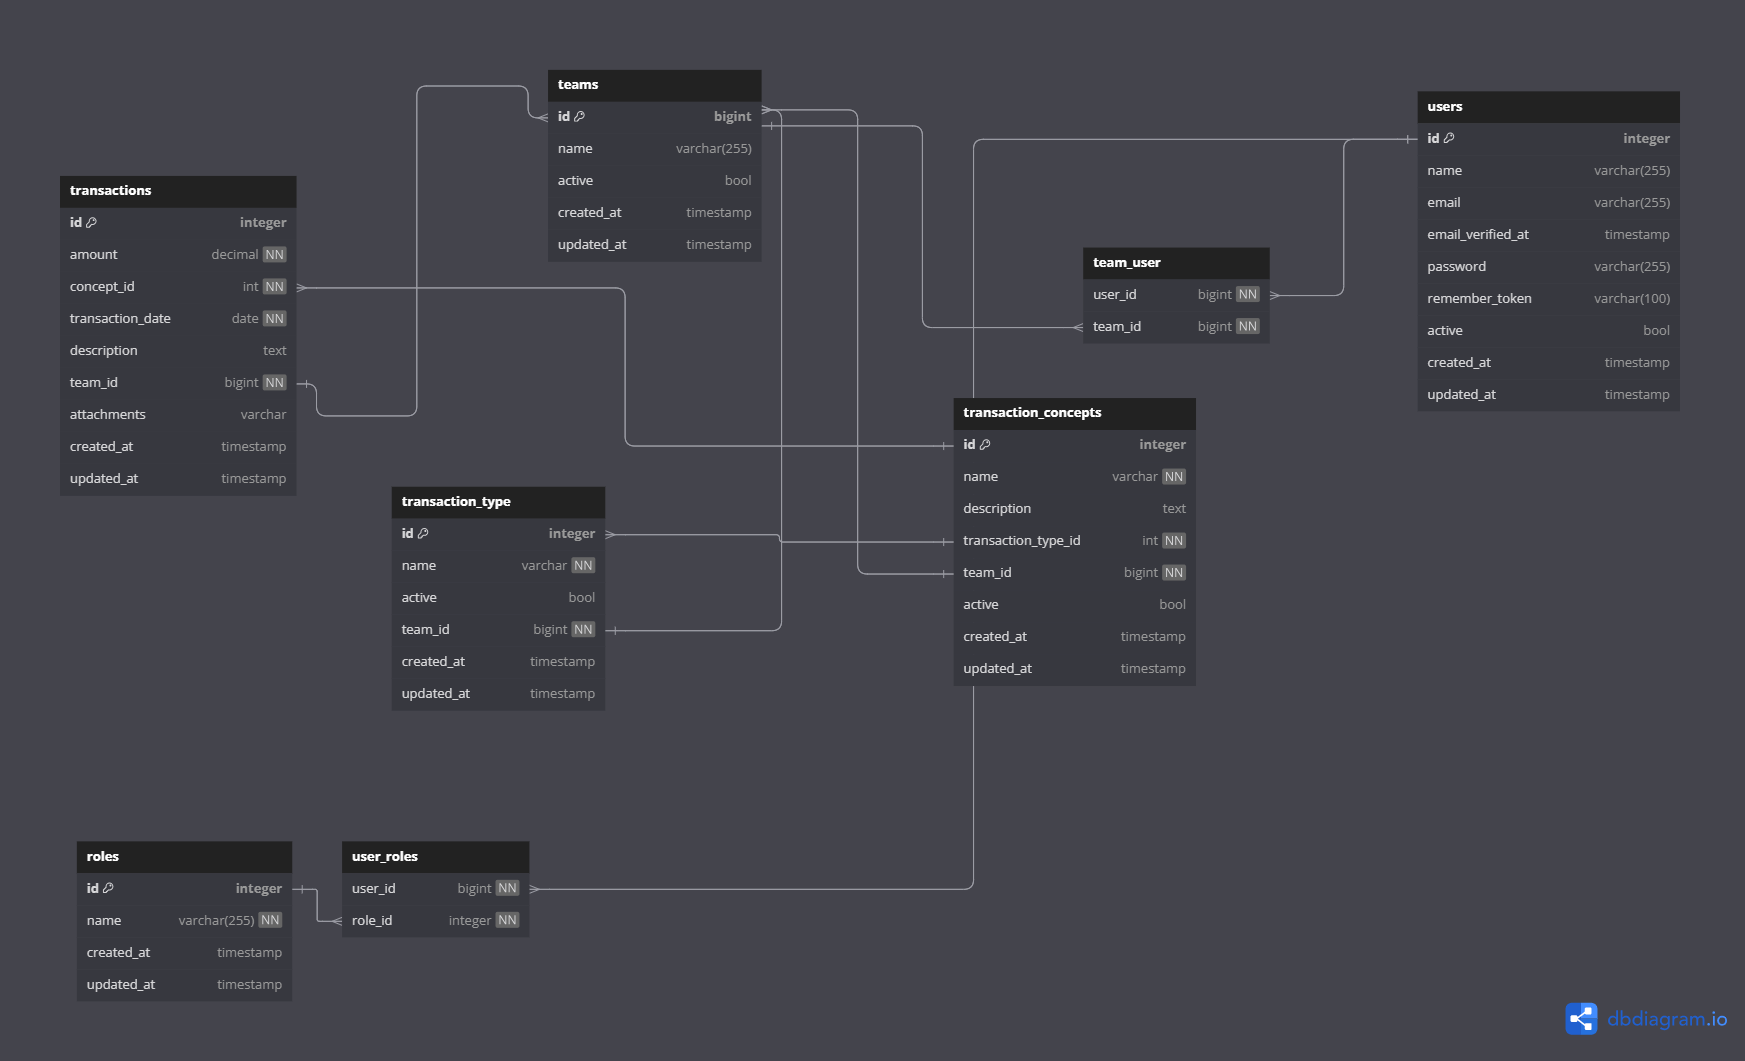
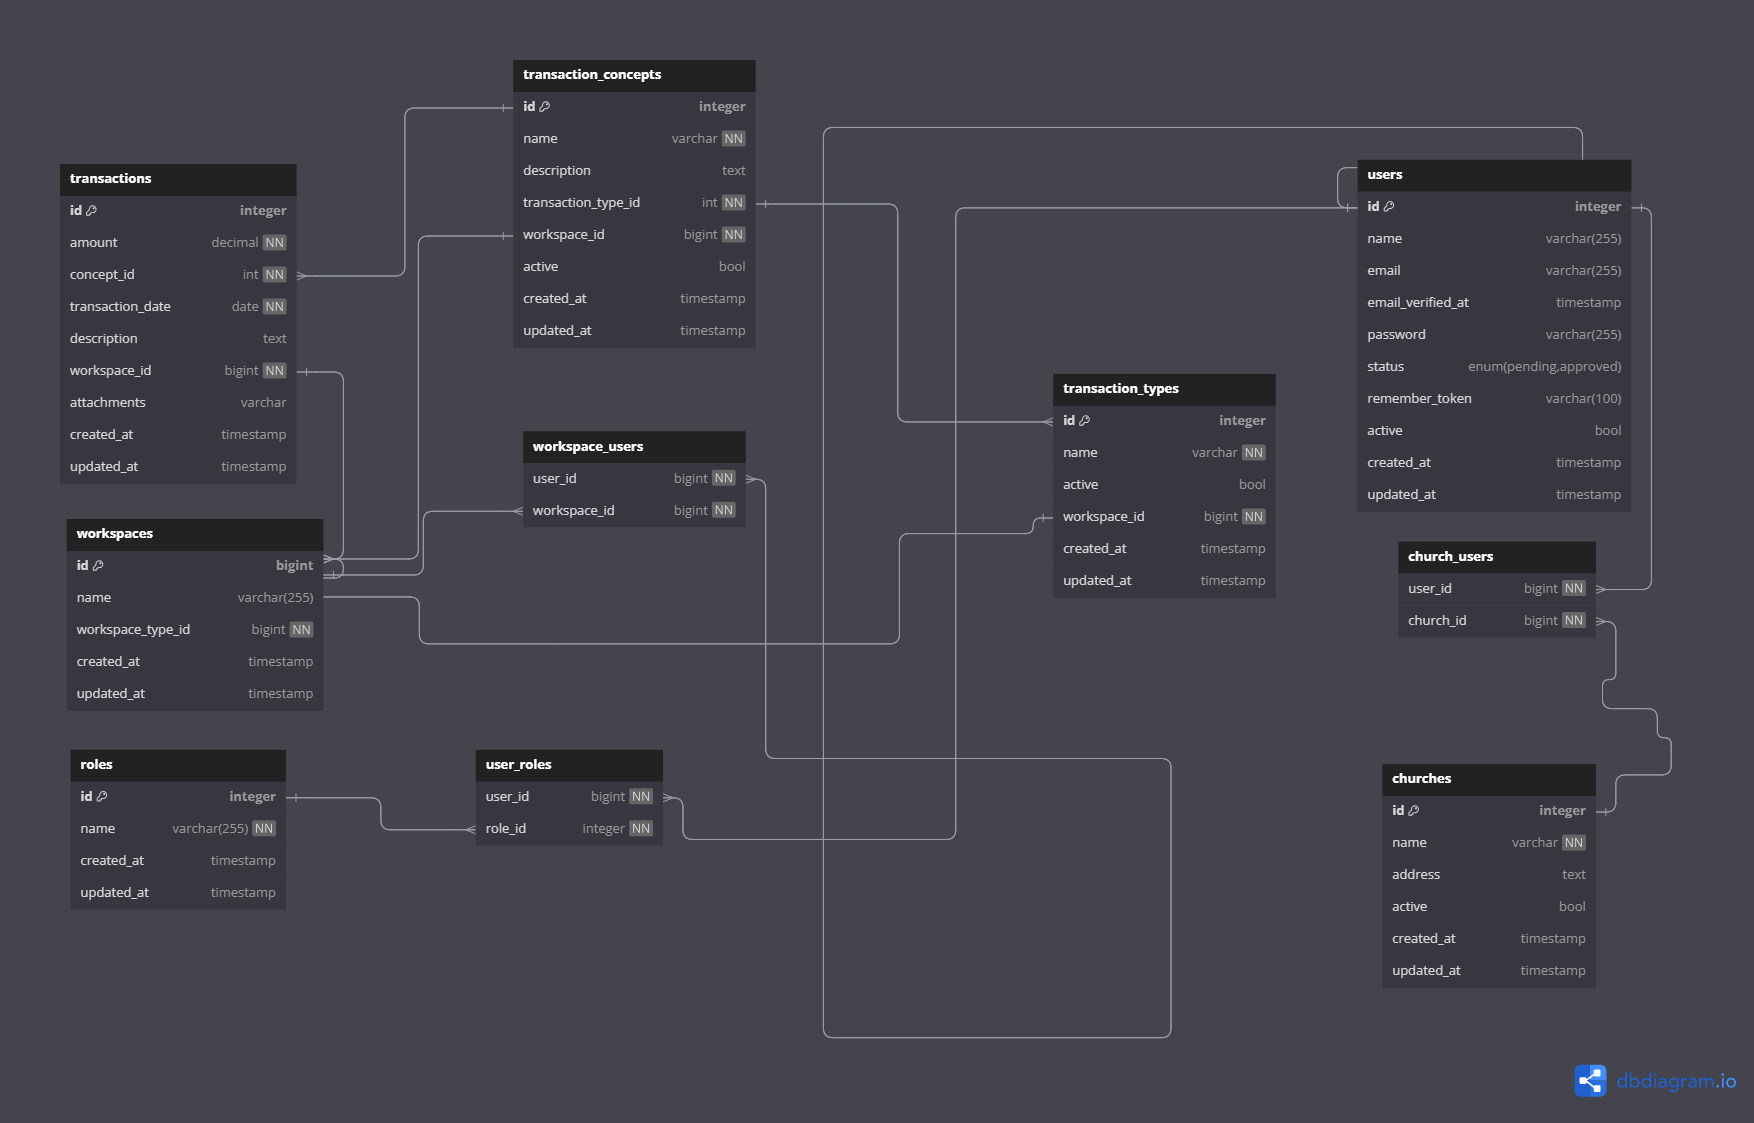
Rename Team model to Workspace and update related references throughout the application

diff --git a/app/Filament/Pages/Tenancy/RegisterWorkspace.php b/app/Filament/Pages/Tenancy/RegisterWorkspace.php
@@ -1,0 +1,51 @@
+<?php
+
+namespace App\Filament\Pages\Tenancy;
+
+use App\Models\Workspace;
+use Filament\Forms\Components\Section;
+use Filament\Forms\Components\TextInput;
+use Filament\Forms\Form;
+use Filament\Pages\Tenancy\RegisterTenant;
+use Illuminate\Support\Facades\Auth;
+
+class RegisterWorkspace extends RegisterTenant
+{
+public static function getLabel(): string
+{
+    return 'Registrar Workspace';
+}
+
+public function form(Form $form): Form
+{
+    return $form
+    ->schema([
+        Section::make('¿Qué es un Workspace?') // Título llamativo
+            ->description('Un workspace es un área dedicada a gestionar, registrar o coordinar proyectos específicos dentro de la iglesia.')
+            ->schema([
+                TextInput::make('name')
+                    ->label('Nombre del Workspace')
+                    ->required()
+                    ->maxLength(15)
+                    ->unique(Workspace::class, 'name') // Asegura que el nombre sea único
+                    ->placeholder('Ejemplo: Contabilidad, Ministerio de Música, Eventos, etc.') // Ejemplos más específicos
+                    ->helperText('Este campo tiene como valor predeterminado "General", pero puedes personalizarlo.') // Explicación clara
+                    ->default('General'),
+            ]),
+    ]);
+
+}
+
+ protected function handleRegistration(array $data): Workspace
+    {
+        $workspace = Workspace::create($data);
+        $user = Auth::user();
+        
+        // Asociar el usuario al workspace
+        $workspace->members()->attach($user);
+
+        return $workspace;
+    }
+    
+
+}

diff --git a/app/Providers/Filament/AdminPanelProvider.php b/app/Providers/Filament/AdminPanelProvider.php
@@ -2,10 +2,10 @@
 
 namespace App\Providers\Filament;
 
-use App\Filament\Pages\Tenancy\RegisterTeam;
+use App\Filament\Pages\Tenancy\RegisterWorkspace;
 use App\Filament\Pages\Auth\Login as myLogin;
-use App\Models\Team;
-use App\Filament\Pages\Tenancy\EditTeamProfile;
+use App\Models\workspace;
+use App\Filament\Pages\Tenancy\EditWorkspaceProfile;
 use App\Http\Middleware\ApplyTenantScopes;
 use Filament\Http\Middleware\Authenticate;
 use Filament\Http\Middleware\AuthenticateSession;
@@ -15,7 +15,6 @@ use Filament\Pages;
 use Filament\Panel;
 use Filament\PanelProvider;
 use Filament\Support\Colors\Color;
-use Filament\Widgets;
 use Illuminate\Cookie\Middleware\AddQueuedCookiesToResponse;
 use Illuminate\Cookie\Middleware\EncryptCookies;
 use Illuminate\Foundation\Http\Middleware\VerifyCsrfToken;
@@ -34,9 +33,9 @@ class AdminPanelProvider extends PanelProvider
             ->brandLogo(asset('images/LogoIPUL_Light.webp'))
             ->darkModeBrandLogo(asset('images/LogoIPUL_Dark.webp'))
             ->brandLogoHeight('3rem')
-            ->tenant(Team::class)
-            ->tenantProfile(EditTeamProfile::class)
-            ->tenantRegistration(RegisterTeam::class)
+            ->tenant(workspace::class)
+            ->tenantProfile(EditWorkspaceProfile::class)
+            ->tenantRegistration(RegisterWorkspace::class)
             ->login(myLogin::class)
             ->colors([
                 'danger' => Color::Rose,

diff --git a/app/Models/User.php b/app/Models/User.php
@@ -61,24 +61,21 @@ class User extends Authenticatable implements FilamentUser, HasTenants, HasAvata
         return $this->avatar;
     }
 
-    public function getTenants(Panel $panel): Collection
+    public function workspaces(): BelongsToMany
     {
-        return $this->teams;
+        return $this->belongsToMany(Workspace::class);
     }
 
-    /**
-     * The teams that belong to the User
-     *
-     * @return \Illuminate\Database\Eloquent\Relations\BelongsToMany
-     */
-    public function teams(): BelongsToMany
+    public function getTenants(Panel $panel): Collection
     {
-        return $this->belongsToMany(Team::class);
+        return $this->workspaces;
     }
+
+
     
     public function canAccessTenant(Model $tenant): bool
     {
-        return $this->teams()->whereKey($tenant)->exists();
+        return $this->workspaces()->whereKey($tenant)->exists();
     }
 
     public function canAccessPanel(Panel $panel): bool

diff --git a/app/Filament/Pages/Tenancy/EditWorkspaceProfile.php b/app/Filament/Pages/Tenancy/EditWorkspaceProfile.php
@@ -1,23 +1,28 @@
 <?php
 
 namespace App\Filament\Pages\Tenancy;
- 
+
+use App\Models\Workspace;
 use Filament\Forms\Components\TextInput;
 use Filament\Forms\Form;
 use Filament\Pages\Tenancy\EditTenantProfile;
  
-class EditTeamProfile extends EditTenantProfile
+class EditWorkspaceProfile extends EditTenantProfile
 {
     public static function getLabel(): string
     {
-        return 'Team profile';
+        return 'Editar Workspace';
     }
  
     public function form(Form $form): Form
     {
         return $form
             ->schema([
-                TextInput::make('name'),
+                TextInput::make('name')                    
+                ->label('Nombre del Workspace')
+                ->required()
+                ->maxLength(15)
+                ->unique(Workspace::class, 'name'),
                 // ...
             ]);
     }

diff --git a/database/migrations/2025_01_22_160207_create_user_workspaces_table.php b/database/migrations/2025_01_22_160207_create_user_workspaces_table.php
@@ -11,11 +11,11 @@ return new class extends Migration
      */
     public function up(): void
     {
-        Schema::create('team_user', function (Blueprint $table) {
+        Schema::create('user_workspace', function (Blueprint $table) {
             $table->unsignedBigInteger('user_id');
             $table->foreign('user_id')->references('id')->on('users');
-            $table->unsignedBigInteger('team_id');
-            $table->foreign('team_id')->references('id')->on('teams');
+            $table->unsignedBigInteger('workspace_id');
+            $table->foreign('workspace_id')->references('id')->on('workspaces');
         });
     }
 
@@ -24,6 +24,6 @@ return new class extends Migration
      */
     public function down(): void
     {
-        Schema::dropIfExists('team_user');
+        Schema::dropIfExists('user_workspace');
     }
 };

diff --git a/database/migrations/2025_01_22_160346_create_transactions_table.php b/database/migrations/2025_01_22_160346_create_transactions_table.php
@@ -17,13 +17,13 @@ return new class extends Migration
             $table->unsignedBigInteger('concept_id'); 
             $table->date('transaction_date')->nullable(false);
             $table->text('description')->nullable();
-            $table->unsignedBigInteger('team_id');
+            $table->unsignedBigInteger('workspace_id');
             $table->string('attachments')->nullable();
             $table->timestamps();
     
             // Relaciones
             $table->foreign('concept_id')->references('id')->on('transaction_concepts')->onDelete('cascade');
-            $table->foreign('team_id')->references('id')->on('teams')->onDelete('cascade');
+            $table->foreign('workspace_id')->references('id')->on('workspaces')->onDelete('cascade');
         });
     }
     

diff --git a/database/migrations/2025_01_22_160348_create_churches_table.php b/database/migrations/2025_01_22_160348_create_churches_table.php
@@ -11,18 +11,22 @@ return new class extends Migration
      */
     public function up(): void
     {
-        Schema::table('users', function (Blueprint $table) {
-            $table->string('avatar')->nullable();
+        Schema::create('churches', function (Blueprint $table) {
+            $table->id();
+            $table->string('name');
+            $table->string('address')->nullable(false);
+            $table->boolean('active')->default(true);
+            $table->timestamps();
+
         });
     }
+    
 
     /**
      * Reverse the migrations.
      */
     public function down(): void
     {
-        Schema::table('users', function (Blueprint $table) {
-            $table->dropColumn('avatar');
-        });
+        Schema::dropIfExists('churches');
     }
 };

diff --git a/database/migrations/2025_01_22_160349_create_church_users_table.php b/database/migrations/2025_01_22_160349_create_church_users_table.php
@@ -1,0 +1,31 @@
+<?php
+
+use Illuminate\Database\Migrations\Migration;
+use Illuminate\Database\Schema\Blueprint;
+use Illuminate\Support\Facades\Schema;
+
+return new class extends Migration
+{
+    /**
+     * Run the migrations.
+     */
+    public function up(): void
+    {
+        Schema::create('church_users', function (Blueprint $table) {
+            $table->unsignedBigInteger('user_id');
+            $table->foreign('user_id')->references('id')->on('users');
+            $table->unsignedBigInteger('church_id');
+            $table->foreign('church_id')->references('id')->on('churches');
+
+        });
+    }
+    
+
+    /**
+     * Reverse the migrations.
+     */
+    public function down(): void
+    {
+        Schema::dropIfExists('church_users');
+    }
+};

diff --git a/database/migrations/2025_01_22_160345_create_transaction_concepts_table.php b/database/migrations/2025_01_22_160345_create_transaction_concepts_table.php
@@ -16,10 +16,10 @@ return new class extends Migration
             $table->string("name")->nullable(false);
             $table->text("description")->nullable();
             $table->boolean("active")->default(true);
-            $table->unsignedBigInteger('team_id');
+            $table->unsignedBigInteger('workspace_id');
             $table->unsignedBigInteger('transaction_type_id');
             $table->timestamps();
-            $table->foreign('team_id')->references('id')->on('teams')->onDelete('cascade');
+            $table->foreign('workspace_id')->references('id')->on('workspaces')->onDelete('cascade');
             $table->foreign('transaction_type_id')->references('id')->on('transaction_types')->onDelete('cascade');
         });
     }

diff --git a/database/migrations/2025_01_22_155901_create_workspaces_table.php b/database/migrations/2025_01_22_155901_create_workspaces_table.php
@@ -11,10 +11,9 @@ return new class extends Migration
      */
     public function up(): void
     {
-        Schema::create('teams', function (Blueprint $table) {
+        Schema::create('workspaces', function (Blueprint $table) {
             $table->id();
             $table->string("name");
-            $table->boolean("active")->default(true);
             $table->timestamps();
         });
     }
@@ -24,6 +23,6 @@ return new class extends Migration
      */
     public function down(): void
     {
-        Schema::dropIfExists('teams');
+        Schema::dropIfExists('workspaces');
     }
 };

diff --git a/database/migrations/2025_01_22_160344_create_transaction_types_table.php b/database/migrations/2025_01_22_160344_create_transaction_types_table.php
@@ -15,10 +15,10 @@ return new class extends Migration
             $table->id();
             $table->string("name")->nullable(false);
             $table->boolean("active")->default(true);
-            $table->unsignedBigInteger('team_id');
+            $table->unsignedBigInteger('workspace_id');
             $table->timestamps();
 
-            $table->foreign('team_id')->references('id')->on('teams')->onDelete('cascade');
+            $table->foreign('workspace_id')->references('id')->on('workspaces')->onDelete('cascade');
         });
     }
 

diff --git a/app/Filament/Resources/TransactionTypeResource.php b/app/Filament/Resources/TransactionTypeResource.php
@@ -16,7 +16,7 @@ use Illuminate\Database\Eloquent\SoftDeletingScope;
 class TransactionTypeResource extends Resource
 {
     protected static ?string $model = TransactionType::class;
-    protected static ?string $tenantOwnershipRelationshipName = 'team';
+    protected static ?string $tenantOwnershipRelationshipName = 'workspace';
     protected static ?string $tenantRelationshipName = 'TransactionTypes';
     protected static ?string $navigationIcon = 'heroicon-o-tag';
     protected static ?string $navigationLabel = 'Tipos de Movimientos';
